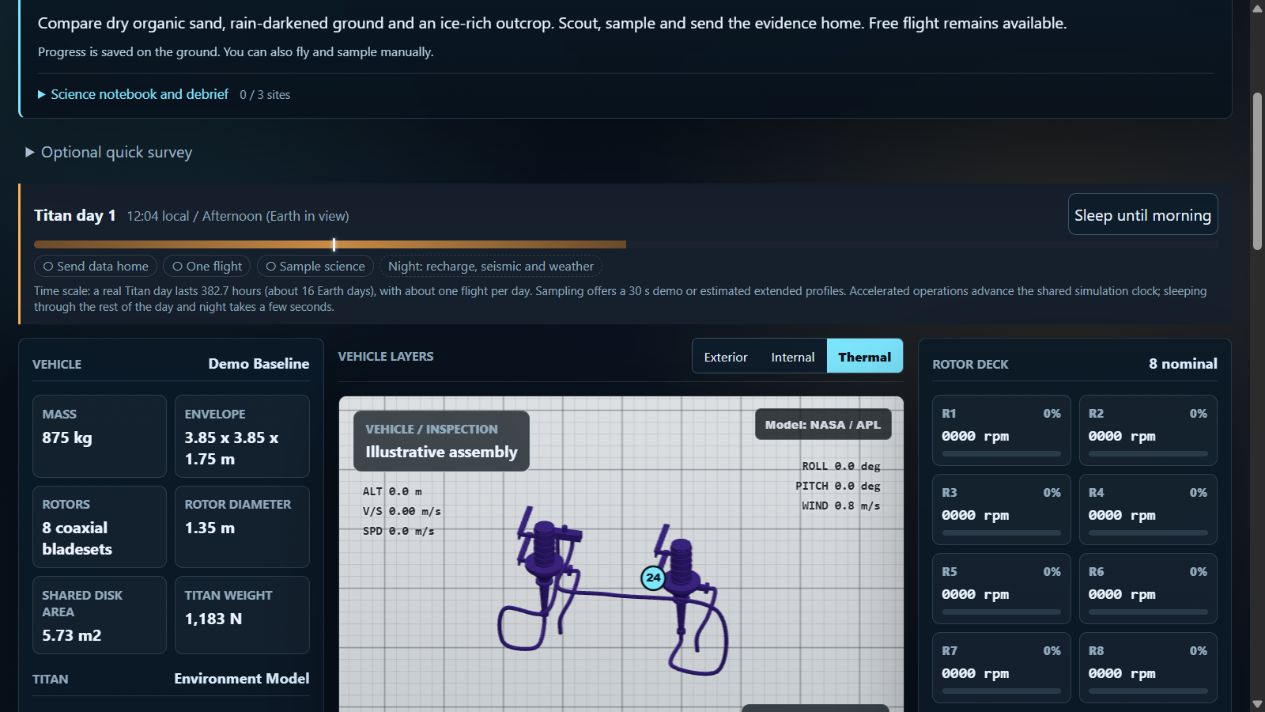
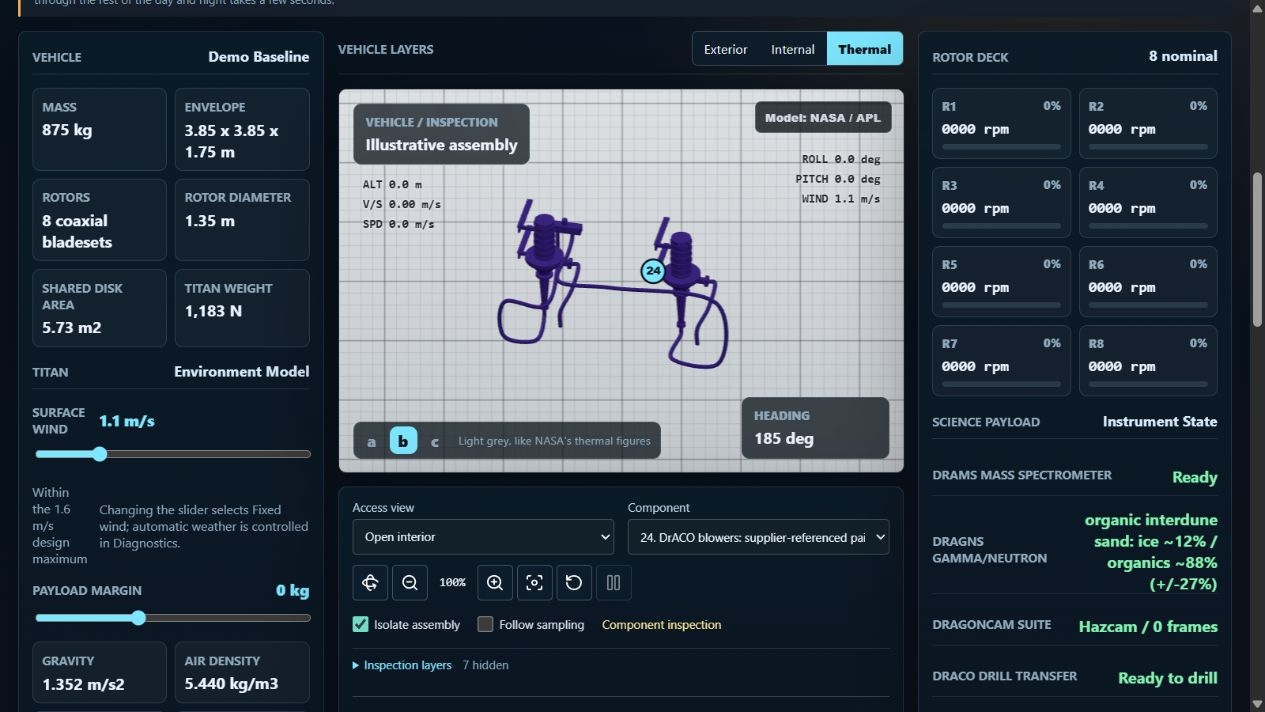
Record live numbering and blower verification [skip ci]

diff --git a/research/draco-blower-pair-2026-10-27/README.md b/research/draco-blower-pair-2026-10-27/README.md
@@ -77,6 +77,16 @@ reported body crossing is the intended retained return-to-selector seating.
 
 ## Next handoff
 
+Published **92ef530** with numbering commit **8bca7a2** and blower commit **4ffd00c**.
+Pages [40734789253](https://github.com/Tboy450/dragonfly-titan-gcs-demo/actions/runs/40734789253)
+succeeded, including CI checks. **746 combined tests** pass after merging the
+concurrent update; its `dist/invasion` and `SWARMFALL-TODO.md` files match the
+incoming remote exactly. Both restore tags pushed. Live build stamp,33 options,
+IDs1–32, grouped part5/all five subassemblies and Open interior verified without
+overflow/errors. `public-checks.json`, `public-blowers.png` and
+`public-navigation-grouped.png` record the public result. Preview stopped and
+viewport restored; public blower inspection left open.
+
 The housing/plumbing fit pass completes the requested illustrative replacement.
 Do not equate this with completed flight wiring. Next evidence-driven work is the
 remaining DrACO feed-sensor identity and blower/diverter electrical interfaces;

diff --git a/CHANGELOG.md b/CHANGELOG.md
@@ -39,6 +39,17 @@ Notes for every session (see [ARCHITECTURE.md](ARCHITECTURE.md) for the file map
 
 ## Entries
 
+### 2026-10-28: Verify public numbering and blower release
+- **Signed:** Codex (OpenAI).
+- **Published:** 92ef530; Pages40734789253 succeeded. Numbering8bca7a2 and blower
+  replacement4ffd00c shipped together with both restore tags.746 combined tests pass.
+- **Verified live:** IDs1–32 in the list/selector,33 options total, part24 pair,
+  part5 grouped with all five original subassemblies, Open interior, no overflow/errors.
+  Public screenshots/JSON saved in the blower pass; concurrent project files unchanged.
+- **Handoff:** Requested pass complete. Flight blower/diverter electrical interfaces,
+  feed sensing and FEB/IMU leads remain unresolved. Do not invent flight circuits.
+  Preview stopped, viewport restored, public blower tab retained.
+
 ### 2026-10-28: Rebuild part 24 from real supplier hardware and fit the pair
 - **Signed:** Codex (OpenAI)
 - **Commit:** Rebuild DrACO blower pair from real supplier references

diff --git a/INTERIOR-REALISM-TODO.md b/INTERIOR-REALISM-TODO.md
@@ -39,6 +39,11 @@ October 28: [Part 24 supplier-referenced replacement](research/draco-blower-pair
   seating/insulation openings and independent access masks. 740 full tests pass.
 - [x] Single/pair/installed/Internal/Thermal/390px samples and real/model/layout
   comparison saved; source packet reused. Part 5 stays grouped, 32 IDs consistent.
+- [x] Published **92ef530**, Pages **40734789253** succeeded; **746 combined tests**
+  pass. Concurrent project files preserved unchanged. Live IDs1–32, all33 options,
+  grouped part5 with all five subassemblies, part24 and Open interior verified
+  without overflow/errors. Public samples/JSON saved. Both archive tags pushed;
+  preview stopped, browser viewport restored.
 - [ ] Actual flight installation, supplier dimensioned drawing, electrical power,
   ports/pinout, blower/diverter leads, feed sensor identity and remote controller
   continuation remain unresolved. Do not invent them to check off completion.

diff --git a/README.md b/README.md
@@ -7,6 +7,10 @@ supports/insulation clearances. Detailed proportions and installed poses remain
 estimates; flight wiring/ICDs unresolved. All 740 tests pass; useful real/model
 comparison and installed desktop/phone samples saved. Ships with the 32-part
 numbering/visible-surface anchor pass below; part 5 stays grouped.
+Published **92ef530**; Pages **40734789253** succeeded. The merged project passes
+**746 tests**; concurrent project files preserved unchanged. Live 32-entry list,
+33 selector options, grouped navigation and part24 verified without overflow/errors.
+[Public verification](research/draco-blower-pair-2026-10-27/public-checks.json).
 
 October 27: [Complete inspection numbering and anchor check](research/inspection-numbering-2026-10-27/README.md).
 All 32 selectable assemblies have matching menu/canvas/list IDs; original 1–24

diff --git a/research/inspection-numbering-2026-10-27/README.md b/research/inspection-numbering-2026-10-27/README.md
@@ -43,6 +43,8 @@ this presentation change and no redundant per-part comparison sheet created.
 
 Exact prior files: [archive](../../archive/inspection-numbering-2026-10-27/README.md),
 tag `archive/inspection-numbering-2026-10-27` at 7db927e. Numbering pass is complete
-locally; publish with the following owner-requested part 24 blower-pair rebuild.
+and published with the owner-requested part24 blower rebuild as **92ef530**.
+Pages40734789253 succeeded; 746 combined tests pass. Live list/menu IDs1–32,
+grouped part5 and no overflow/errors verified; see the blower pass public receipt.
 See `research/draco-electrical-audit-2026-10-27/README.md` for the primary supplier
 photos/dimensions, two-unit/plumbing fit plan and unresolved flight interfaces.
